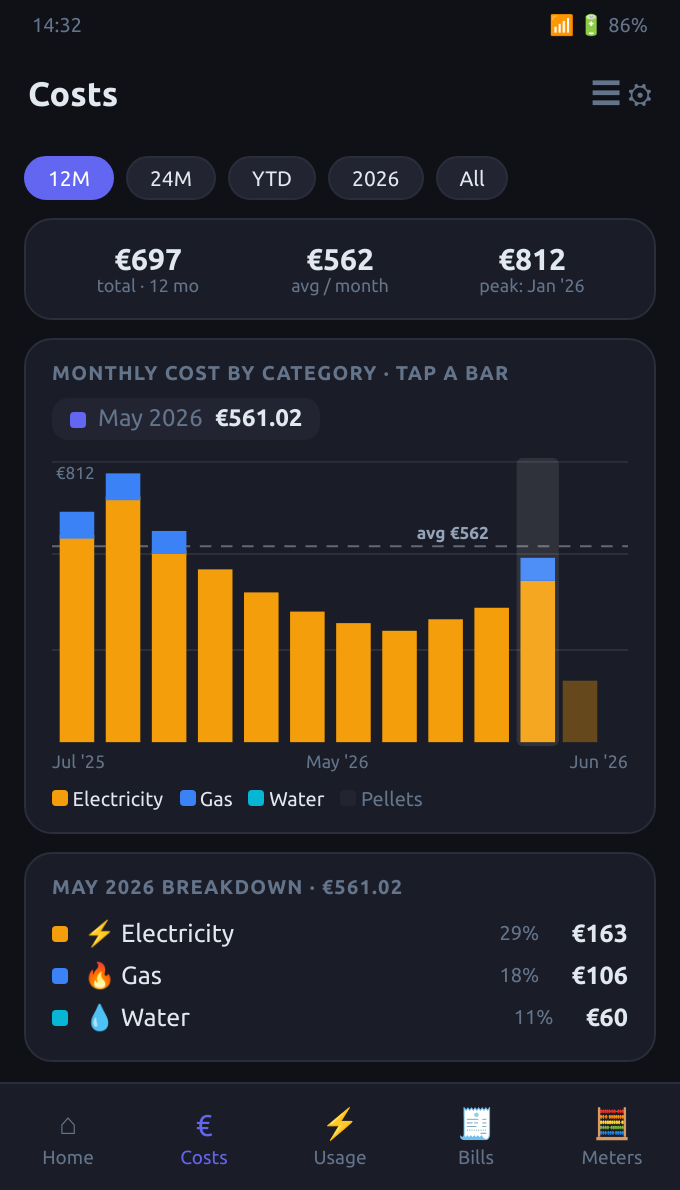
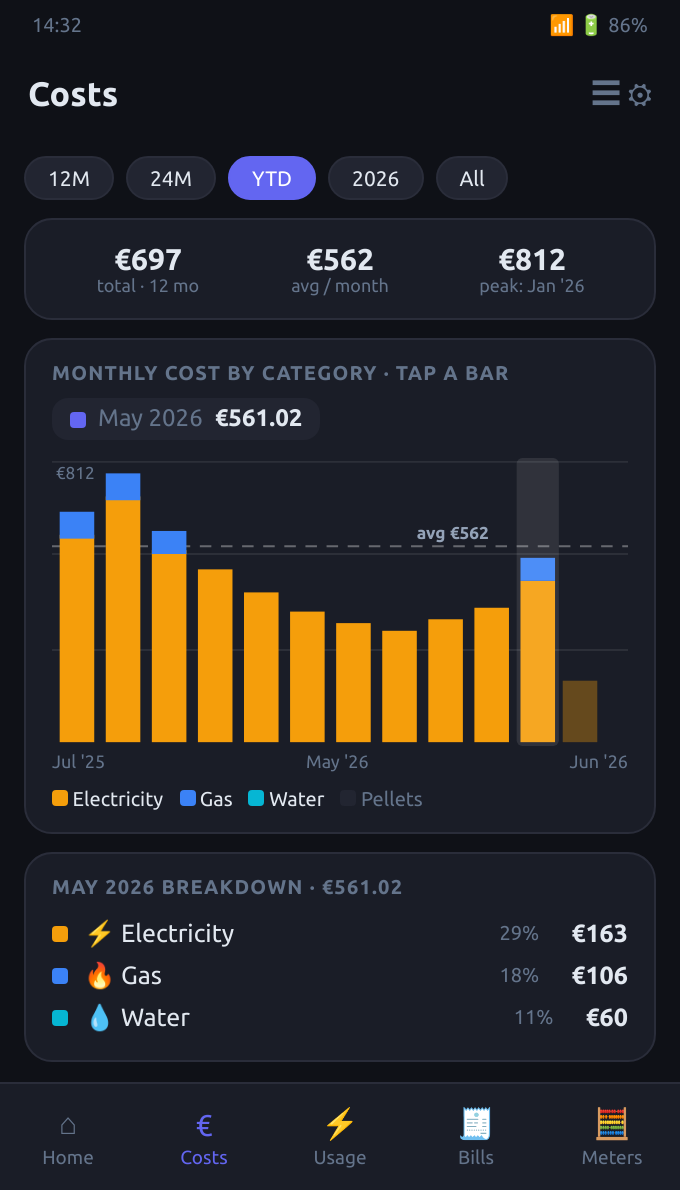
Default the Costs & Usage range to YTD

Changed region(s): [[0.0309, 0.1244, 0.1853, 0.1866], [0.3397, 0.1244, 0.4632, 0.1866]]

diff --git a/scripts/screens.html b/scripts/screens.html
@@ -72,7 +72,7 @@
   <div class="status"><span>14:32</span><span>📶 🔋 86%</span></div>
   <div class="top"><span class="t">Costs</span><span class="r">☰ ⚙</span></div>
   <div class="body">
-    <div class="chips"><span class="chip on">12M</span><span class="chip">24M</span><span class="chip">YTD</span><span class="chip">2026</span><span class="chip">All</span></div>
+    <div class="chips"><span class="chip">12M</span><span class="chip">24M</span><span class="chip on">YTD</span><span class="chip">2026</span><span class="chip">All</span></div>
     <div class="card">
       <div class="row" style="justify-content:space-between">
         <div style="text-align:center;flex:1"><div class="bold tx" style="font-size:15px">€697</div><div class="mut" style="font-size:9px">total · 12 mo</div></div>
@@ -127,7 +127,7 @@
   <div class="status"><span>14:32</span><span>📶 🔋 86%</span></div>
   <div class="top"><span class="t">Usage</span><span class="r">☰ ⚙</span></div>
   <div class="body">
-    <div class="chips"><span class="chip on">12M</span><span class="chip">24M</span><span class="chip">YTD</span><span class="chip">All</span></div>
+    <div class="chips"><span class="chip">12M</span><span class="chip">24M</span><span class="chip on">YTD</span><span class="chip">All</span></div>
     <div class="card">
       <div class="lbl">Unit costs · latest</div>
       <div class="row" style="justify-content:space-between">

diff --git a/app/src/main/java/ee/household/bills/ui/Filters.kt b/app/src/main/java/ee/household/bills/ui/Filters.kt
@@ -12,7 +12,7 @@ import ee.household.bills.api.Series
  *  rolling-window range is the comfortable 90% case for phone analysis. */
 class FilterState {
     val categories = mutableStateMapOf<String, Boolean>()
-    var preset by mutableStateOf("12M")
+    var preset by mutableStateOf("YTD")   // default range on Costs & Usage
     private var inited = false
 
     fun initFrom(s: Series) {